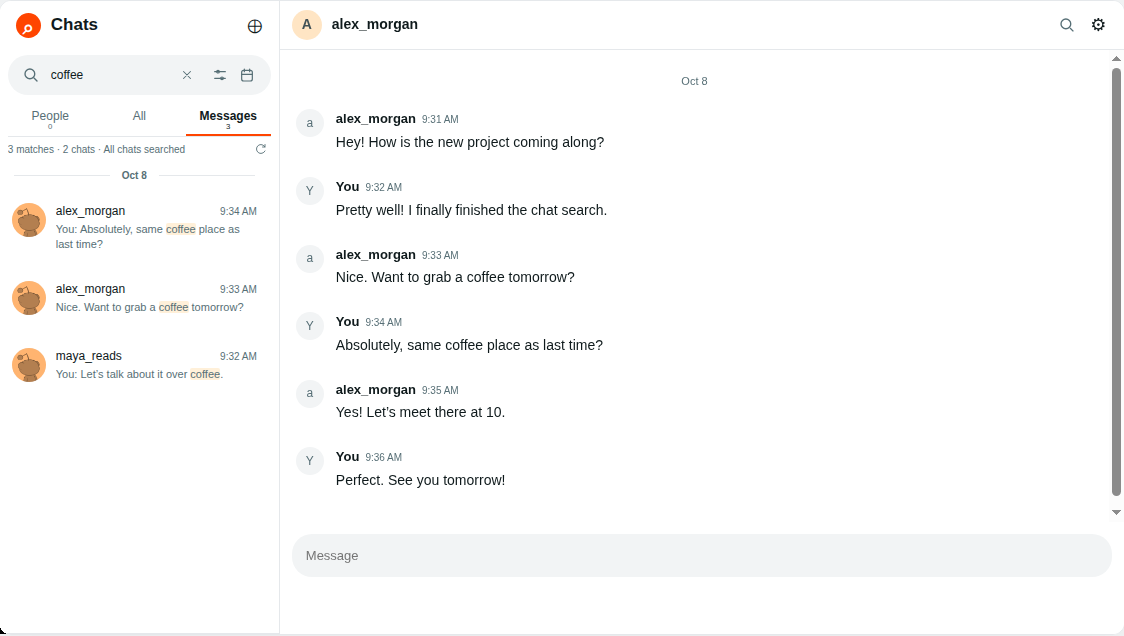
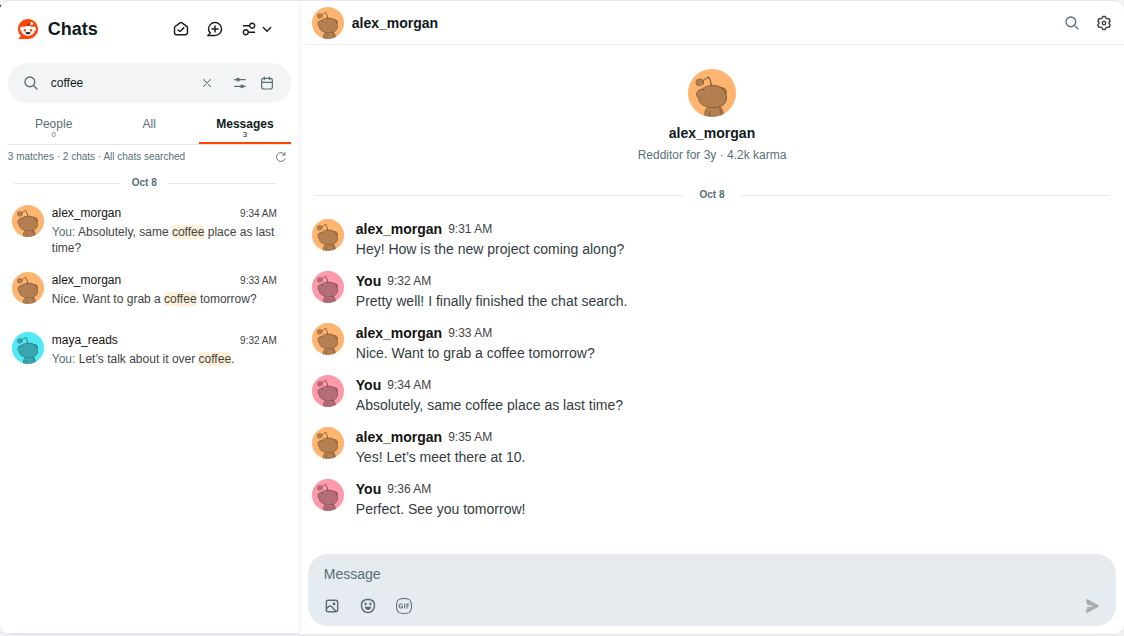
docs: rewrite the README with balanced feature coverage
Covers every area the extension offers (chat search, feeds, videos and
media, profiles and search, accounts, the archive, Visual search, tools
and phones) with specific, checked descriptions instead of leading with
Visual search. Screenshots now show the updated chat demo (made-up data),
the Sort & filter post-type menu on a real feed, the video start choices
in the popup and the Visual tab; the viewer and older popup shots are
dropped.

diff --git a/README.md b/README.md
@@ -5,123 +5,182 @@
 <h1 align="center">Reddit Tweaks</h1>
 
 <p align="center">
-  Better feeds, media, search and accounts for Reddit on the web, on desktop and on your phone.
+  <b>The Reddit website, finished.</b><br>
+  Search every chat, filter any feed, decide how videos play, switch accounts, and bring back what Reddit hides.
 </p>
 
 <p align="center">
-  <a href="../../releases/latest"><b>Download</b></a> ·
-  <a href="#features">Features</a> ·
+  <a href="../../releases/latest"><b>Download the latest release</b></a> ·
   <a href="#install">Install</a> ·
+  <a href="#whats-inside">What's inside</a> ·
   <a href="PRIVACY.md">Privacy</a> ·
-  <a href="CHANGELOG.md">What's new</a>
+  <a href="CHANGELOG.md">Changelog</a>
 </p>
 
 <p align="center">
-  <img src="docs/media/visual-search.jpg" alt="The Visual tab in Reddit search: images and videos found by what they look like" width="860">
+  <img src="docs/media/chat-search.png" width="860" alt="Chat search: the word coffee found in three messages across two conversations, with People, All and Messages tabs">
 </p>
 
-Reddit Tweaks is a browser extension that fills the gaps in Reddit's website. Search all your chats, filter any feed, decide how videos play, switch accounts in one click, and find posts by what they look like. It works inside Reddit's own pages and matches Reddit's design, so it feels like part of the site.
+Reddit Tweaks is a free browser extension for **reddit.com** on Chrome, Edge, Brave and Firefox, on desktop and on your phone. It doesn't replace Reddit with a different app. It adds what's missing inside Reddit's own pages, styled like Reddit's own menus and buttons, so it feels like part of the site.
 
-Every feature can be switched on or off from the toolbar popup. Anything that uses an outside service is off until you turn it on.
+Everything is switched on or off from the toolbar popup, one feature at a time. The everyday improvements are on from the start. Anything that talks to a service outside Reddit stays off until you turn it on.
 
-## Features
+## What's inside
 
-### Search
+- [Chat search](#chat-search): find any message or person in your Reddit chats.
+- [Feeds](#feeds): one Sort & filter menu for every feed, smoother scrolling, and Back that remembers your place.
+- [Videos and media](#videos-and-media): your rules for how videos, GIFs and embedded players start, sound, loop and open.
+- [Profiles and search](#profiles-and-search): search any profile, see hidden activity, keep a longer history, and use one search language everywhere.
+- [Accounts and your content](#accounts-and-your-content): switch accounts, clean up your old posts, and see what was removed.
+- [The archive](#the-archive-optional): restore deleted posts and comments, and open banned communities.
+- [Visual search](#visual-search-optional): find posts by what they look like.
+- [More tools](#more-tools): raffles, downloads, moderation, and phone-specific fixes.
 
-- **Chat search.** Search every Reddit chat and message, including old conversations Reddit no longer shows, by person, by words, or by date. Your messages are indexed on your device, not online.
-- **Visual search.** A **Visual** tab in Reddit search finds images, GIFs and videos by what they look like. Search with your own picture (upload, paste or drag it in), or find posts that look like one you're viewing. Clips preview as you hover or scroll, and open in a full-screen viewer.
-- **Profile search and hidden activity.** Search anyone's posts and comments, find posts hidden from profiles, and see profiles that have blocked you.
-- **History.** Keep far more than Reddit's last 20 viewed posts, stored only in your browser.
+## Chat search
 
-<p align="center">
-  <img src="docs/media/chat-search.png" alt="Chat search finding the word coffee across several conversations" width="760">
-</p>
+Reddit's chat can only scroll back through what it has already loaded. Reddit Tweaks adds a real search box to the chat list, in full-page chat and in the floating chat window.
 
-### Feeds
+- **People, Messages or All.** Find a conversation by name, or find the message itself, with each match highlighted. Click a result to jump straight to it.
+- **Every chat, not just recent ones,** including old conversations Reddit no longer shows in the list.
+- **Filters** for who sent it (`from:me`, `from:alice`), what it contains (`has:image`, `has:link`) and when (`after:2026-10-01`, or the date picker).
+- **Private by design.** Your messages are indexed on your own device as you use chat, never uploaded anywhere. You can see how much is stored, and clear it, from the popup's Data tab.
 
-- **One Sort & filter menu** on Home, Popular, All, communities and custom feeds. Filter by post type, flair, community or date, and see posts still awaiting approval.
-- **Smooth scrolling** on long feeds, profiles, search results and comment threads, and Back returns you to where you were.
+## Feeds
+
+<img src="docs/media/feed-filters.jpg" align="right" width="360" alt="The Sort and filter menu on r/pics, showing the post type filter">
+
+- **One Sort & filter menu** on Home, Popular, All, communities and custom feeds. It combines sort, view (card or compact) and filters:
+  - **post type:** text, images, GIFs, videos, galleries, links, polls, embedded media and more;
+  - **flair**, **community** and **date**;
+  - **posts awaiting approval** in communities you moderate.
+- **Smooth scrolling** on long feeds, profiles, search results and (in beta) long comment threads.
+- **Back returns you to where you were,** with the same posts in the same place, instead of reloading the feed from the top.
 - **Clean shared links** without Reddit's tracking parameters.
-- **On phones:** hide the "open in the app" prompts, and choose for each kind of page whether the top bar stays, hides as you scroll, or stays out of the way.
 
-### Videos and media
+<br clear="right">
 
-- **Choose how media starts:** Reddit's default, autoplay, preview on hover (or the one you stop on, on phones), or only when you press Play. Videos, GIFs and embedded players (YouTube, Vimeo, Streamable and more) each have their own setting.
-- **Seamless post transition.** A playing video carries on smoothly into its post.
-- **Post opened directly.** Decide whether a post's own video starts muted, with sound, or paused.
-- **Little things:** one video at a time, remembered volume, hold for 2× speed, looping, stream quality, and pause or keep playing when you scroll away.
-- **Download media** from images, galleries, GIFs and videos.
+## Videos and media
 
-<p align="center">
-  <img src="docs/media/viewer.jpg" alt="The full-screen viewer showing a video result with Find similar, Download and Open post" width="760">
-</p>
+<img src="docs/media/video-settings.png" align="right" width="300" alt="Video settings in the Reddit Tweaks popup, with the Videos start choices open">
 
-### Accounts and your content
+Reddit decides when videos play and how loud. With Reddit Tweaks, you do:
 
-- **Switch accounts** from Reddit's own account menu, or browse anonymously, without signing out.
-- **Redaction.** Edit or delete your old posts and comments in bulk, with a review step before anything changes.
-- **Your removed content.** See which of your posts and comments were removed or deleted, with an optional toolbar count.
+- **How things start:** Reddit's default, autoplay muted, preview on hover (on phones, preview the one you stop on), or only when you press Play. Reddit videos, GIFs and embedded players (YouTube, Vimeo, Streamable, RedGIFs, Twitch and more) each get their own setting.
+- **What a click does:** play in place, open the post, or go full screen, with or without sound.
+- **Seamless post transition:** a playing video carries on into its post at the same moment, instead of restarting.
+- **Post opened directly:** when you open a post's link, its video can start muted, with sound, or wait for Play.
+- **Comfort settings:**
+  - one video at a time;
+  - remembered volume;
+  - hold to play at 2× speed;
+  - loop always, never, or only short clips;
+  - preferred stream quality, including a data saver;
+  - pause videos you scroll past, or keep them going in a floating mini-player.
+- **Embedded players under control:** with your permission, sound and controls work in place, and embeds can't send you off to their own sites.
+- **Download media** from image, gallery, GIF and video posts.
 
-### Archive (optional)
+<br clear="right">
 
-Powered by Arctic Shift, a public archive of Reddit. Turn on **Use the archive** to:
+## Profiles and search
 
-- restore deleted posts, comments, images and authors in place;
-- browse banned and private communities;
-- find activity Reddit no longer shows on profiles.
+- **Profile search:** search anyone's posts and comments, including posts Reddit hides from their profile.
+- **Profiles that blocked you:** see that an account has blocked you, and view its public profile anyway.
+- **Longer history:** keep up to 5,000 viewed posts, or all of them, instead of Reddit's last 20. It's stored only in your browser and is searchable.
+- **One search language everywhere:** chat, profiles, your Saved, History, Hidden and voted posts. It supports:
+  - `"exact phrases"`, `OR`, `-exclusions` and `(groups)`;
+  - fields like `title:`, `u/`, `r/`, `site:`, `flair:` and `type:image`.
 
-### Tools
+  Press **Ctrl+/** (**⌘/** on Mac) in a search box to see what it supports. The full guide is in [docs/search-syntax.md](docs/search-syntax.md).
 
-- **Raffles.** Pick winners from a post's comments, right from its ⋯ menu.
-- **Awaiting approval filter.** Show posts held for review in any community: your mod queue where you moderate, otherwise the archive.
+## Accounts and your content
 
-<p align="center">
-  <img src="docs/media/popup-settings.png" alt="The Reddit Tweaks settings popup" width="320">
-  &nbsp;&nbsp;
-  <img src="docs/media/popup-visual-search.png" alt="Visual Search settings in the popup" width="320">
-</p>
+- **Switch accounts** from Reddit's own account menu, or browse anonymously, without signing out and back in.
+- **Redaction:** edit or delete your old posts and comments in bulk. You can filter by community, choose to overwrite, delete or both, and review everything before it happens.
+- **Your removed content:** see which of your posts and comments were removed or deleted, with an optional count of new changes on the toolbar icon.
+
+## The archive (optional)
+
+Reddit Tweaks can use [Arctic Shift](https://arctic-shift.photon-reddit.com), a public archive of Reddit, to show what Reddit no longer does. It's off until you turn on **Use the archive**. Then you can:
+
+- read **deleted and removed comments and posts** where they used to be, including their images and authors;
+- open **banned and private communities** and search their old posts;
+- find **activity missing from profiles,** including deleted and suspended accounts;
+- keep going in a filtered feed after Reddit's listing ends (Reddit stops at about 1,000 posts).
+
+## Visual search (optional)
+
+<img src="docs/media/visual-search.jpg" width="860" alt="The Visual tab in Reddit search showing golden retriever photos">
+
+Turn on **Visual search** for a **Visual** tab in Reddit search. It finds images, GIFs and videos by what they look like.
+
+- **Search with your own picture:** upload it, paste it, or drag it in.
+- **Find posts that look like one you're viewing,** from its ⋯ menu, or from a lens button on images and videos (a separate option).
+- **Results act like Reddit media:** clips preview as you hover or scroll, open in a full-screen viewer, and carry on into the post.
+
+## More tools
+
+- **Raffles:** pick winners from a post's commenters, right from its ⋯ menu.
+- **Awaiting approval filter:** show posts held for review, from your mod queue where you moderate, or the archive elsewhere.
+- **On phones:**
+  - keep browsing when Reddit pushes you toward its app, including its mature-content prompts;
+  - optionally reveal blurred NSFW media on posts you open;
+  - choose per kind of page (Home, feeds, communities, posts, profiles and search) whether Reddit's top bar stays, hides as you scroll down, or stays hidden until you pull down.
 
 ## Install
 
-Reddit Tweaks isn't in the browser stores yet. Every [release](../../releases) has ready-made packages.
+Reddit Tweaks isn't in the browser stores yet. Each [release](../../releases) has ready-to-use packages.
 
 **Chrome, Edge, Brave and other Chromium browsers**
 
 1. Download `reddit-tweaks-v….zip` from the [latest release](../../releases/latest) and unzip it.
 2. Open `chrome://extensions` (or `edge://extensions`, `brave://extensions`) and turn on **Developer mode**.
 3. Click **Load unpacked** and choose the unzipped folder.
-4. Refresh any open Reddit tabs.
+4. Refresh any Reddit tabs you already had open.
 
-**Firefox (desktop and Android)**
+**Firefox**
 
-Each release also has a Firefox build (`reddit-tweaks-firefox-v….zip`). Until it's listed on Firefox Add-ons, you can try it on desktop through `about:debugging` → **This Firefox** → **Load Temporary Add-on**, choosing the zip. Firefox removes temporary add-ons when it restarts.
+Each release also includes a Firefox build, `reddit-tweaks-firefox-v….zip`. Until it's listed on Firefox Add-ons, you can try it in desktop Firefox:
 
-**Updating:** download the new release, replace the folder's contents, then press the reload button on the extension's card and refresh Reddit.
+1. Open `about:debugging`.
+2. Go to **This Firefox** and choose **Load Temporary Add-on**.
+3. Select the zip.
+
+Firefox removes temporary add-ons when it restarts.
+
+**Updating:** unzip the new release over the old folder, then press the reload button on the extension's card and refresh Reddit.
 
 ## Privacy
 
-Reddit Tweaks has no analytics and sends nothing to its developers. Your chats, history and settings stay in your browser. Optional features that use outside services (Arctic Shift for the archive, infini.wtf for Visual search, RedditRaffler for public raffles) are off until you choose them, and each says what it sends. See [PRIVACY.md](PRIVACY.md) for details.
+- No analytics and no tracking. Nothing is sent to the developers.
+- Your chats, history and settings stay in your browser.
+- The optional services (Arctic Shift for the archive, an external visual search service, and RedditRaffler for public raffles) only receive what each feature needs, and only after you turn it on.
+
+[PRIVACY.md](PRIVACY.md) lists exactly what is stored and what each service receives.
 
 ## FAQ
 
-**Is this made by Reddit?**
-No. It's an independent extension and isn't affiliated with Reddit.
+**Is this an official Reddit product?**
+No. Reddit Tweaks is an independent project and isn't affiliated with Reddit.
 
-**Which Reddit does it work on?**
-The current Reddit website (`www.reddit.com`), on desktop and mobile browsers. Old Reddit isn't supported.
+**Does it work on old Reddit?**
+No. It works on the current website, `www.reddit.com`, on desktop and mobile browsers.
 
 **Do I need to be signed in?**
-Most features work either way. Chat search, account switching, redaction and your removed content need you to be signed in.
+Most features work either way. Chat search, account switching, redaction and your removed content need you signed in.
 
-**Something looks broken after Reddit changed its site.**
-Please [open an issue](../../issues) with the page and what you expected to see.
+**Will it slow Reddit down?**
+It's built to do the opposite. Smooth scrolling skips work for posts far off screen, and chat search reads your messages from your own device instead of asking Reddit again.
+
+**Something broke after Reddit changed its site.**
+That happens. Please [open an issue](../../issues) with the page and what you expected to see.
 
 ## For developers
 
 ```bash
-npm install          # test tools only; the extension has no runtime dependencies
+npm install          # test tools only; the extension itself has no dependencies
 npm test             # unit tests
 npm run package      # builds artifacts/reddit-chat-search/ (load unpacked) and a zip
+npm run preview      # local demo pages with made-up data
 ```
 
-Building, testing, the release pipeline and how each feature works are covered in [docs/development.md](docs/development.md). The contribution workflow is in [AGENTS.md](AGENTS.md), and release notes are in [CHANGELOG.md](CHANGELOG.md).
+How to build, test and release, and how each feature works internally, are in [docs/development.md](docs/development.md). The contribution workflow is in [AGENTS.md](AGENTS.md).
